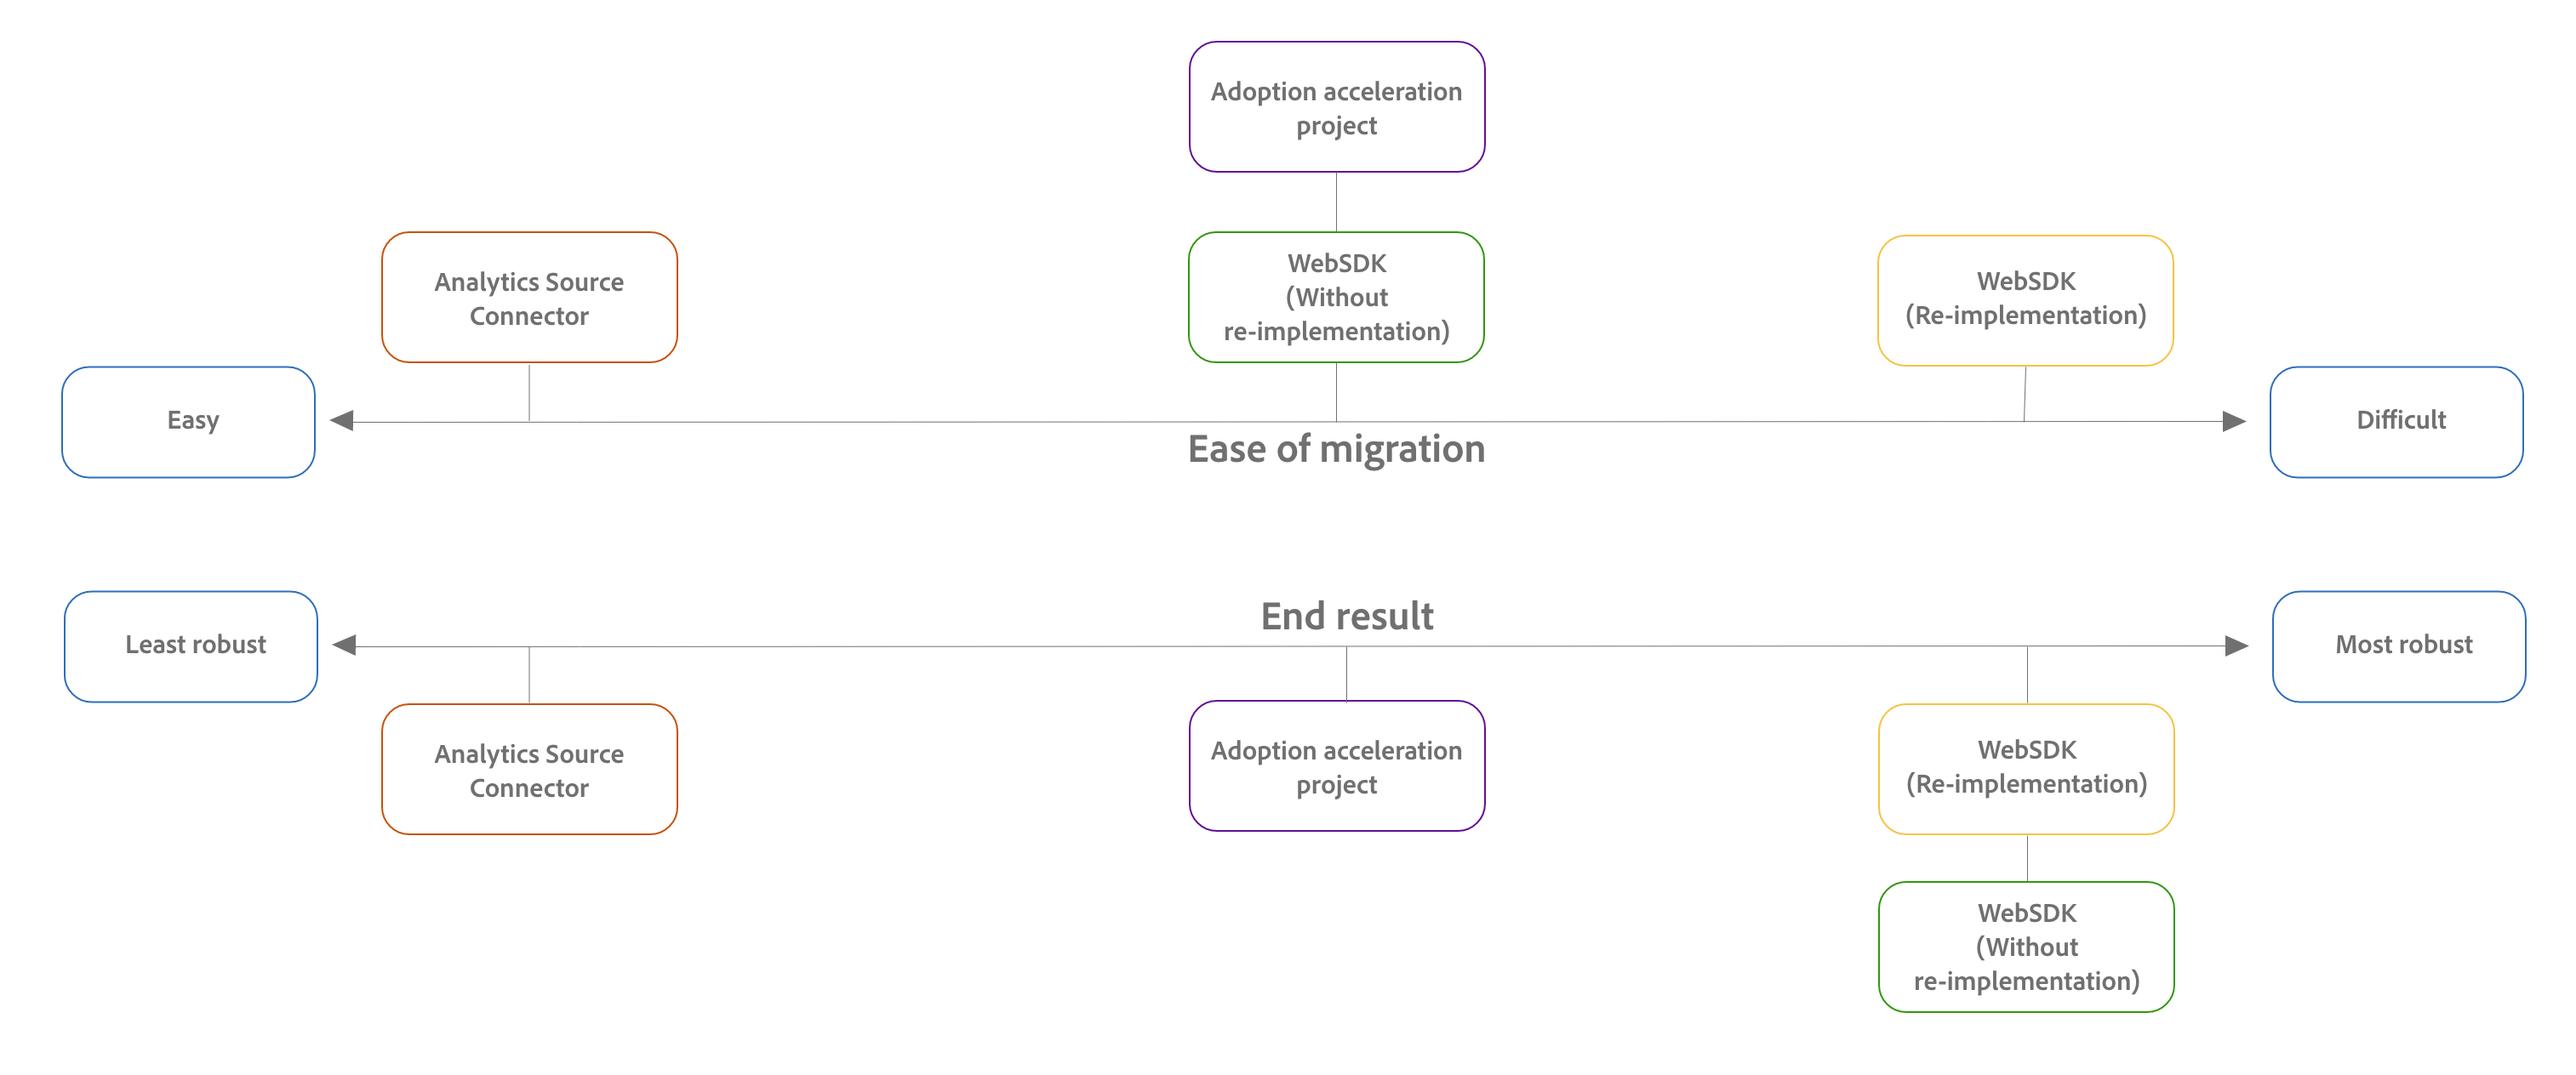
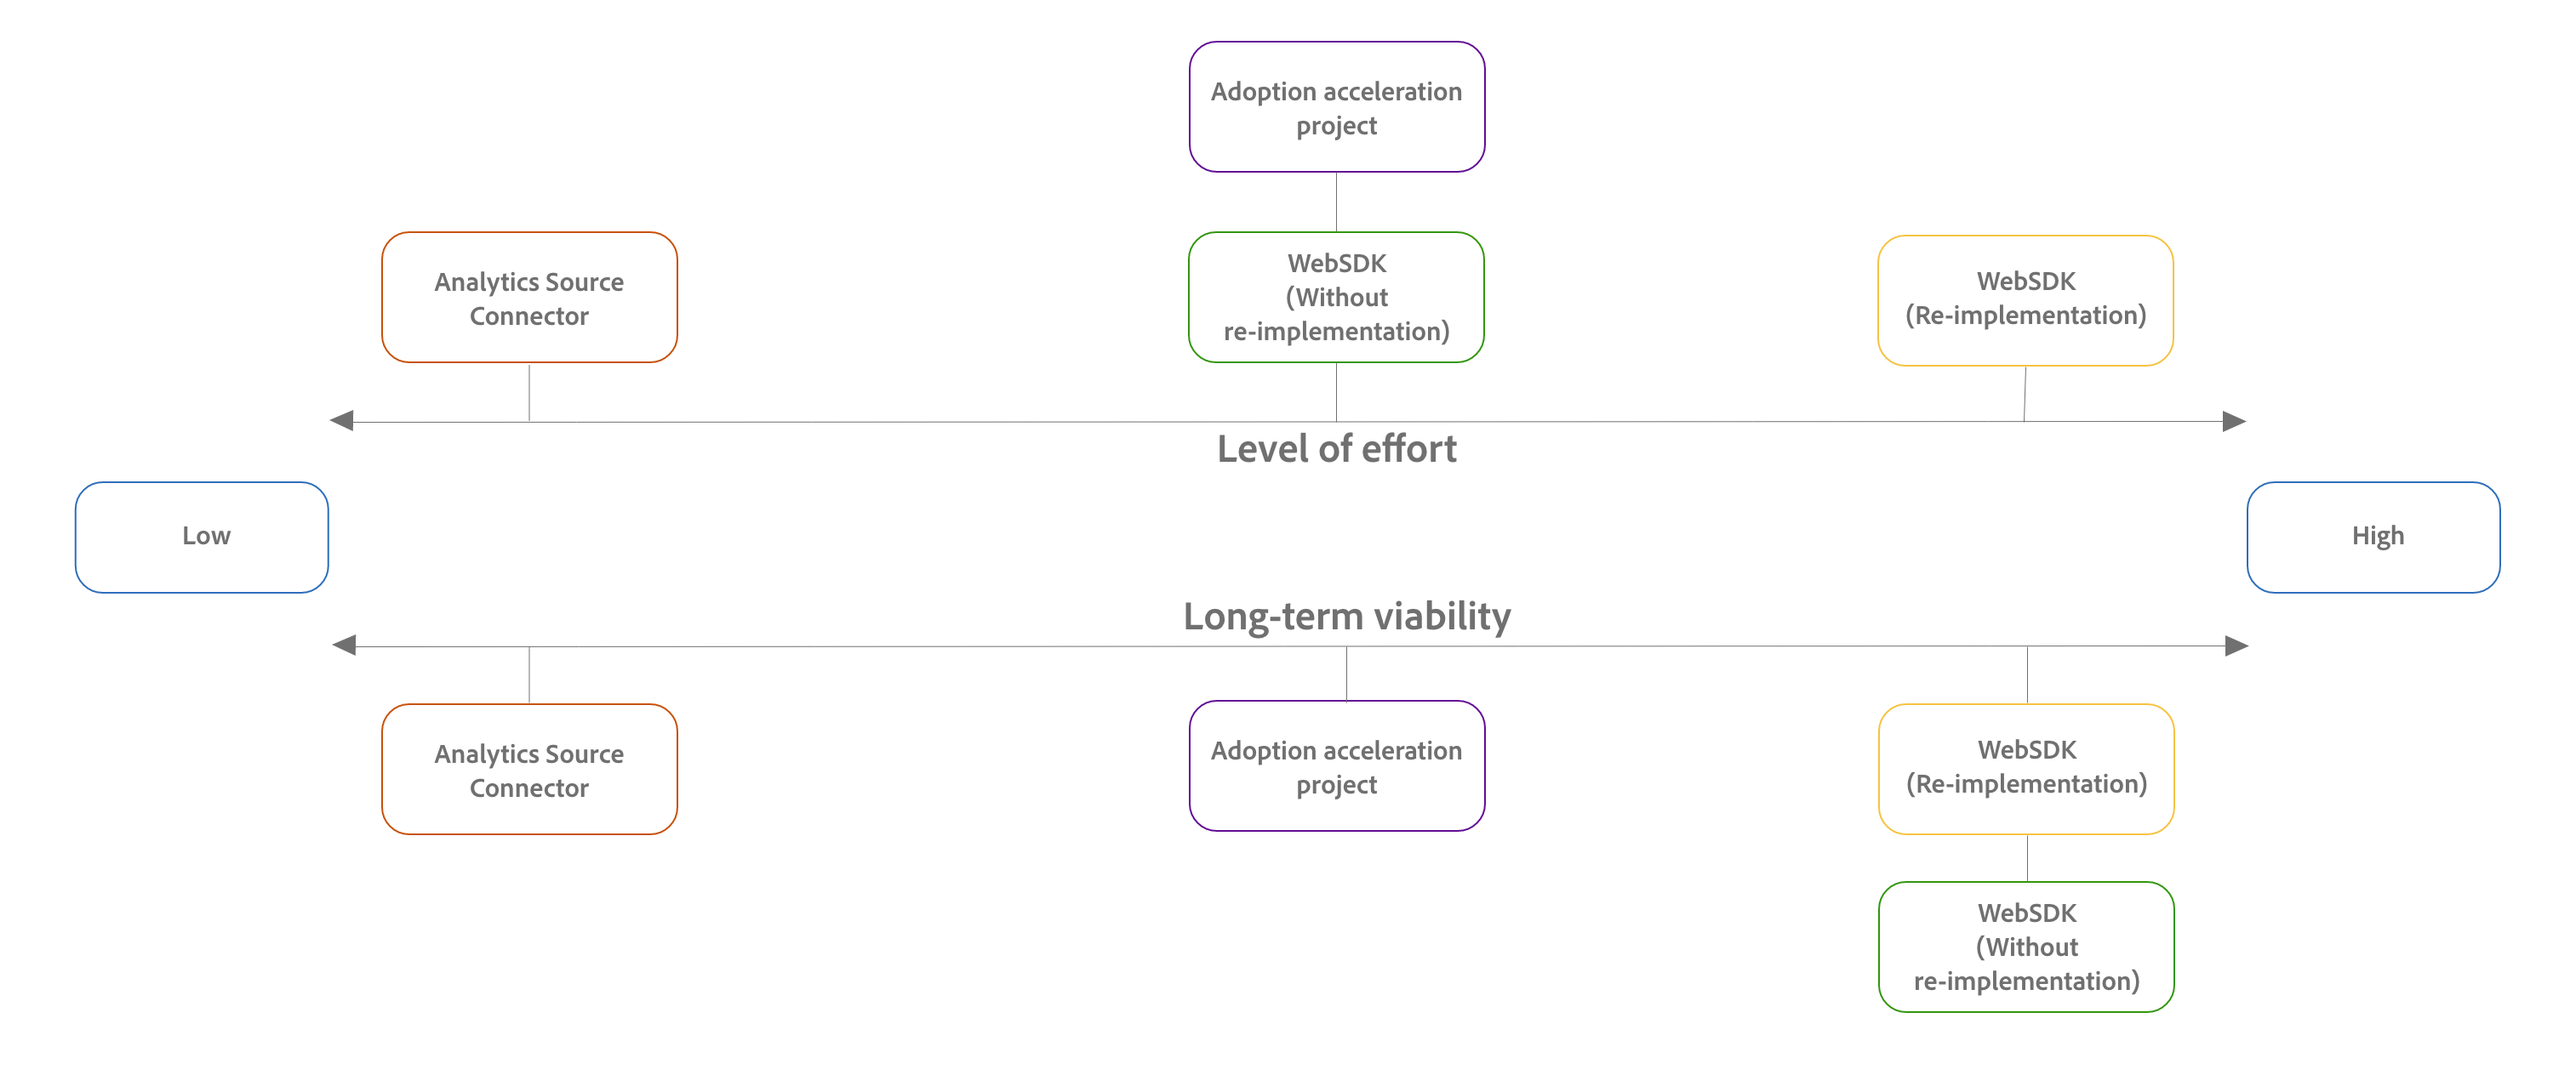
updates

diff --git a/help/getting-started/aa-vs-cja/cja-migration-planning.md b/help/getting-started/aa-vs-cja/cja-migration-planning.md
@@ -24,15 +24,15 @@ As you plan your migration, learn how Customer Journey Analytics can benefit you
 
   For more information, see [Customer Journey Analytics data views](/help/getting-started/aa-vs-cja/vrs-dataview-sandbox-adc.md#customer-journey-analytics-data-views)
 
-* Derived fields
-
-  Derived fields allow for report-time transformations to your data. Data can be combined, corrected, or created on the fly and applies retroactively to all reporting.
-
 * Transformation apply to historical and new data
 
   Data View manipulation can be applied to both historical and new data in a non-destructive manner. For more information, see [Data Views](/help/getting-started/aa-vs-cja/vrs-dataview-sandbox-adc.md).
 
-* Combining Connections (report suites in Adobe Analytics)
+* Derived fields
+
+  Derived fields allow for report-time transformations to your data. Data can be combined, corrected, or created on the fly and applies retroactively to all reporting.
+
+* Combine Connections (report suites in Adobe Analytics)
 
   You can combine data from multiple Connections (report suites in Adobe Analytics) as if they were a single Connection.
 
@@ -42,7 +42,7 @@ As you plan your migration, learn how Customer Journey Analytics can benefit you
 
 ## Step 2: Choose your Customer Journey Analytics migration method
 
-After you decide to migrate to Customer Journey Analytics, you need to determine the optimal migration method.  
+After you decide to migrate to Customer Journey Analytics, you need to determine the optimal migration method for your organization.  
 
 The method that you choose for migrating from Adobe Analytics to Customer Journey Analytics depends on the following factors: 
 
@@ -58,9 +58,9 @@ There are various options available for migrating from Adobe Analytics to Custom
 
 #### Understand migration methods  
 
-In general, each migration method differs in the level of difficulty required to execute the migration, as well as in the end result achieved after the migration completes.  
+In general, each migration method differs in the level of effort required to execute the migration, as well as in the long-term viability achieved after the migration completes.  
 
-The following table lists each migration method, its level of effort, and the robustness of the migration based on the end result that it achieves: 
+The following table lists each migration method, its level of effort, and its long-term viability: 
 
 | Migration method | Level of effort | Long-term viability |
 |---------|----------|---------|
@@ -69,7 +69,7 @@ The following table lists each migration method, its level of effort, and the ro
 | Adoption acceleration project | Moderate | Moderate |
 | Analytics Source Connector | Low | Low |
 
-Use the following diagram to help visualize where each migration method falls on the spectrum in terms of level of effort, as well as the end result that each achieves:
+Use the following diagram to help visualize where each migration method falls on the spectrum in terms of level of effort, as well as the long-term viability that each achieves:
 
 ![cja migration methods](assets/cja-migration-methods.png)
 
@@ -95,7 +95,7 @@ AppMeasurement is the oldest supported Adobe Analytics implementation. Because o
 
 The following table shows the migration methods available for organizations who have implemented Adobe Analytics with AppMeasurement:
 
-| | Pros | Cons |
+| Migration method | Pros | Cons |
 |---------|----------|---------|
 | **WebSDK (re-implementation)** |<ul><li>Highly performant reporting (low latency) because the infrastructure is built around real-time data </li><li>Future-proof (will receive all the latest features and functionality)</li><li>Consolidate tags for Adobe Experience Cloud data collection between other Experience Cloud products (AJO, RTCDP, etc.)</li></ul> | <ul><li>Most time-consuming and demanding migration method</li><li>Must re-create the full schema in XDM</li></ul> |
 | **Analytics Source Connector** | <ul><li>Least time-consuming and demanding migration method: Data is migrated to Customer Journey Analytics quickly with minimal investment </li></ul> | <ul><li>Difficult to move to WebSDK in the future</li><li>Uses the Analytics Experience Event field group in your schema</li><li>This field group adds many Adobe Analytics events that are not needed in your Customer Journey Analytics schema.  This can lead to a more cluttered, complex schema than what is otherwise needed for Customer Journey Analytics.</li><li>Highest level of [latency](/help/admin/guardrails.md#latencies) across all implementation methods</li><li>Data cannot be shared with other Adobe Experience Platform applications; it is constrained to Customer Journey Analytics only</li></ul> |
@@ -104,7 +104,7 @@ The following table shows the migration methods available for organizations who 
 
 The following table shows the migration methods available for organizations who have implemented Adobe Analytics with the Adobe Analytics extension:
 
-| | Pros | Cons |
+| Migration method | Pros | Cons |
 |---------|----------|---------|
 | **WebSDK (re-implementation)** |<ul><li>Highly performant reporting (low latency) because the infrastructure is built around real-time data </li><li>Future-proof (will receive all the latest features and functionality)</li><li>Consolidate tags for Adobe Experience Cloud data collection between other Experience Cloud products (AJO, RTCDP, etc.)</li></ul> | <ul><li>Most time-consuming and demanding migration method</li><li>Must re-create the full schema in XDM</li></ul> |
 | **Analytics Source Connector** | <ul><li>Least time-consuming and demanding migration method: Data is migrated to Customer Journey Analytics quickly with minimal investment </li></ul> | <ul><li>Difficult to move to WebSDK in the future</li><li>Uses the Analytics Experience Event field group in your schema</li><li>This field group adds many Adobe Analytics events that are not needed in your Customer Journey Analytics schema.  This can lead to a more cluttered, complex schema than what is otherwise needed for Customer Journey Analytics.</li><li>Highest level of [latency](/help/admin/guardrails.md#latencies) across all implementation methods</li><li>Data cannot be shared with other Adobe Experience Platform applications; it is constrained to Customer Journey Analytics only</li></ul> |
@@ -114,7 +114,7 @@ The following table shows the migration methods available for organizations who 
 
 The following table shows the migration methods available for organizations who have implemented Adobe Analytics with the WebSDK:
 
-| | Pros | Cons |
+| Migration method | Pros | Cons |
 |---------|----------|---------|
 | **WebSDK (without re-implementation)** |<ul><li>The ideal migration method; available only with Adobe Analytics WebSDK implementations</li><li>Infrastructure is built around real-time data; this equates to highly performant reporting with low latency</li><li>Future-proof (will receive all the latest features and functionality)</li><li>Consolidate tags for Adobe Experience Cloud data collection between other Experience Cloud products (AJO, RTCDP, etc.)</li></ul> | None |
 
@@ -125,15 +125,15 @@ The following options are available for handling historical data when moving fro
 
 * Utilize the Adobe Source Connector
 
-  Regardless of the migration method that you choose, you can use the Adobe Source Connector to retain historical Adobe Analytics data. For example, even if you migrate using the WebSDK.
-  
+  Regardless of the migration method that you choose (even if you migrate using the WebSDK), you can use the Adobe Source Connector to retain historical Adobe Analytics data. 
+
   You can use the Adobe Source Connector to retain historical data in the following ways:
   
-  * Bring historical data to its own dedicated place, separate from your current data.
+  * Bring historical data to its own dedicated location, separate from your current data.
 
-  * Map it in a way that allows you to get historical data tied to your new data. <!-- explain -->
+  * Map historical data in a way that allows you to tie it to your new data. <!-- Possible? Explain -->
 
-* Maintain your current Adobe Analytics implementation alongside your new Customer Journey Analytics implementation for a specific time frame (for example, 1 year). Turn off the Adobe Analytics implementation after you have sufficient data in Customer Journey Analytics. 
+* Maintain your current Adobe Analytics implementation alongside your new Customer Journey Analytics implementation for a specific time frame (for example, 1 year). You can decommission the Adobe Analytics implementation after you have sufficient data in Customer Journey Analytics. 
 
 ## Step 4: Plan data mapping to the XDM schema
 
